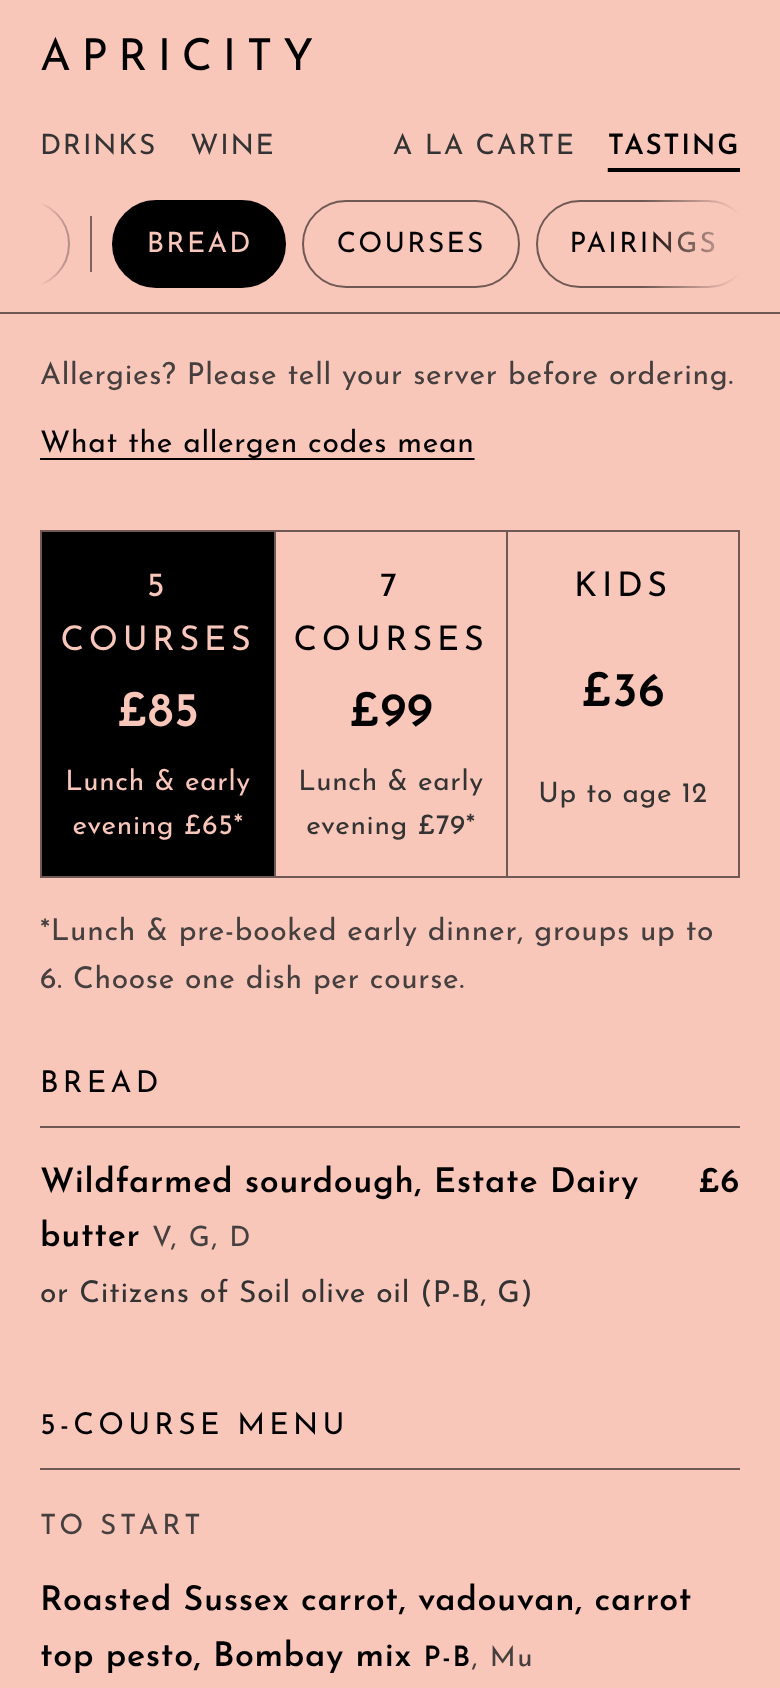
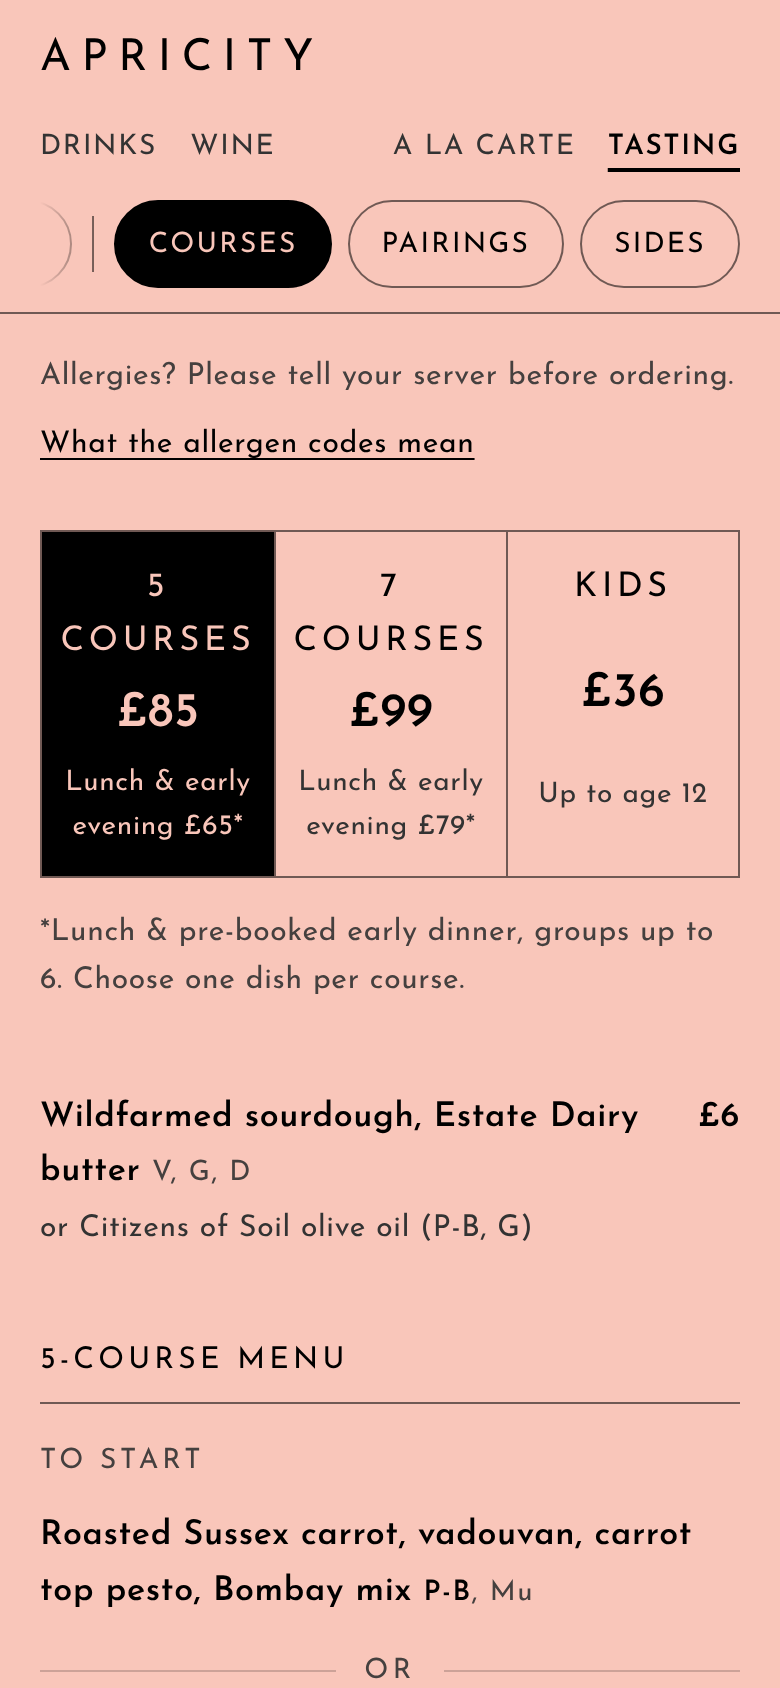
Bread: no heading or button of its own
Rows with no Section (a la carte) or Course (tasting) now sit at the top
of the menu with no heading and no section button. The bread rows in
both sheets have an empty Section/Course, so the bread shows above
Starters and above the tasting courses. Staff guide and screenshots
updated.

Claude-Session: https://claude.ai/code/session_01GSSoGmMPpnkgwBsug1j8uu

diff --git a/chefs-table.html b/chefs-table.html
@@ -327,7 +327,7 @@ details dd { margin: 0; }
   function groupBy(rows, key) {
     var out = [], idx = {};
     rows.forEach(function (r) {
-      var k = r[key] || "Other";
+      var k = r[key] || "";
       if (!(k in idx)) { idx[k] = out.length; out.push({ title: k, rows: [] }); }
       out[idx[k]].rows.push(r);
     });
@@ -410,14 +410,17 @@ details dd { margin: 0; }
   chips.addEventListener("scroll", updateFade, { passive: true });
   window.addEventListener("resize", updateFade);
   // A plain menu tab (drinks, a la carte): Section | Item | Description | Allergens | Price | Price note | Section note | Show
+  // Rows with no Section (or Course) in the sheet, like the bread, sit at the top with no heading and no button.
+  function untitled(rows) { return rows.length ? '<div class="section untitled">' + list(rows.map(rowItem)) + "</div>" : ""; }
   function simpleMenu(rows, food) {
     var groups = groupBy(rows, "section");
     var html = groups.map(function (g) {
       var shown = food ? plantFilter(g.rows) : g.rows;
+      if (!g.title) return untitled(shown);
       var note = (g.rows.filter(function (r) { return r["section note"]; })[0] || {})["section note"];
       return section(slug(g.title), g.title, shown.length ? list(shown.map(rowItem)) : '<p class="empty">No plant-based ' + esc(g.title.toLowerCase()) + " today.</p>", note);
     }).join("");
-    setChips(groups.map(function (g) { return [slug(g.title), g.title]; }), food);
+    setChips(groups.filter(function (g) { return g.title; }).map(function (g) { return [slug(g.title), g.title]; }), food);
     return html;
   }
 
@@ -504,6 +507,7 @@ details dd { margin: 0; }
       });
       var nav = [];
       before.forEach(function (g) {
+        if (!g.title) { html += untitled(plantFilter(g.rows)); return; }
         nav.push([slug(g.title), g.title]);
         html += section(slug(g.title), g.title, list(plantFilter(g.rows).map(rowItem)));
       });

diff --git a/index.html b/index.html
@@ -327,7 +327,7 @@ details dd { margin: 0; }
   function groupBy(rows, key) {
     var out = [], idx = {};
     rows.forEach(function (r) {
-      var k = r[key] || "Other";
+      var k = r[key] || "";
       if (!(k in idx)) { idx[k] = out.length; out.push({ title: k, rows: [] }); }
       out[idx[k]].rows.push(r);
     });
@@ -410,14 +410,17 @@ details dd { margin: 0; }
   chips.addEventListener("scroll", updateFade, { passive: true });
   window.addEventListener("resize", updateFade);
   // A plain menu tab (drinks, a la carte): Section | Item | Description | Allergens | Price | Price note | Section note | Show
+  // Rows with no Section (or Course) in the sheet, like the bread, sit at the top with no heading and no button.
+  function untitled(rows) { return rows.length ? '<div class="section untitled">' + list(rows.map(rowItem)) + "</div>" : ""; }
   function simpleMenu(rows, food) {
     var groups = groupBy(rows, "section");
     var html = groups.map(function (g) {
       var shown = food ? plantFilter(g.rows) : g.rows;
+      if (!g.title) return untitled(shown);
       var note = (g.rows.filter(function (r) { return r["section note"]; })[0] || {})["section note"];
       return section(slug(g.title), g.title, shown.length ? list(shown.map(rowItem)) : '<p class="empty">No plant-based ' + esc(g.title.toLowerCase()) + " today.</p>", note);
     }).join("");
-    setChips(groups.map(function (g) { return [slug(g.title), g.title]; }), food);
+    setChips(groups.filter(function (g) { return g.title; }).map(function (g) { return [slug(g.title), g.title]; }), food);
     return html;
   }
 
@@ -504,6 +507,7 @@ details dd { margin: 0; }
       });
       var nav = [];
       before.forEach(function (g) {
+        if (!g.title) { html += untitled(plantFilter(g.rows)); return; }
         nav.push([slug(g.title), g.title]);
         html += section(slug(g.title), g.title, list(plantFilter(g.rows).map(rowItem)));
       });

diff --git a/src/chefs-table.html b/src/chefs-table.html
@@ -319,7 +319,7 @@ details dd { margin: 0; }
   function groupBy(rows, key) {
     var out = [], idx = {};
     rows.forEach(function (r) {
-      var k = r[key] || "Other";
+      var k = r[key] || "";
       if (!(k in idx)) { idx[k] = out.length; out.push({ title: k, rows: [] }); }
       out[idx[k]].rows.push(r);
     });
@@ -402,14 +402,17 @@ details dd { margin: 0; }
   chips.addEventListener("scroll", updateFade, { passive: true });
   window.addEventListener("resize", updateFade);
   // A plain menu tab (drinks, a la carte): Section | Item | Description | Allergens | Price | Price note | Section note | Show
+  // Rows with no Section (or Course) in the sheet, like the bread, sit at the top with no heading and no button.
+  function untitled(rows) { return rows.length ? '<div class="section untitled">' + list(rows.map(rowItem)) + "</div>" : ""; }
   function simpleMenu(rows, food) {
     var groups = groupBy(rows, "section");
     var html = groups.map(function (g) {
       var shown = food ? plantFilter(g.rows) : g.rows;
+      if (!g.title) return untitled(shown);
       var note = (g.rows.filter(function (r) { return r["section note"]; })[0] || {})["section note"];
       return section(slug(g.title), g.title, shown.length ? list(shown.map(rowItem)) : '<p class="empty">No plant-based ' + esc(g.title.toLowerCase()) + " today.</p>", note);
     }).join("");
-    setChips(groups.map(function (g) { return [slug(g.title), g.title]; }), food);
+    setChips(groups.filter(function (g) { return g.title; }).map(function (g) { return [slug(g.title), g.title]; }), food);
     return html;
   }
 
@@ -496,6 +499,7 @@ details dd { margin: 0; }
       });
       var nav = [];
       before.forEach(function (g) {
+        if (!g.title) { html += untitled(plantFilter(g.rows)); return; }
         nav.push([slug(g.title), g.title]);
         html += section(slug(g.title), g.title, list(plantFilter(g.rows).map(rowItem)));
       });

diff --git a/src/menu.html b/src/menu.html
@@ -319,7 +319,7 @@ details dd { margin: 0; }
   function groupBy(rows, key) {
     var out = [], idx = {};
     rows.forEach(function (r) {
-      var k = r[key] || "Other";
+      var k = r[key] || "";
       if (!(k in idx)) { idx[k] = out.length; out.push({ title: k, rows: [] }); }
       out[idx[k]].rows.push(r);
     });
@@ -402,14 +402,17 @@ details dd { margin: 0; }
   chips.addEventListener("scroll", updateFade, { passive: true });
   window.addEventListener("resize", updateFade);
   // A plain menu tab (drinks, a la carte): Section | Item | Description | Allergens | Price | Price note | Section note | Show
+  // Rows with no Section (or Course) in the sheet, like the bread, sit at the top with no heading and no button.
+  function untitled(rows) { return rows.length ? '<div class="section untitled">' + list(rows.map(rowItem)) + "</div>" : ""; }
   function simpleMenu(rows, food) {
     var groups = groupBy(rows, "section");
     var html = groups.map(function (g) {
       var shown = food ? plantFilter(g.rows) : g.rows;
+      if (!g.title) return untitled(shown);
       var note = (g.rows.filter(function (r) { return r["section note"]; })[0] || {})["section note"];
       return section(slug(g.title), g.title, shown.length ? list(shown.map(rowItem)) : '<p class="empty">No plant-based ' + esc(g.title.toLowerCase()) + " today.</p>", note);
     }).join("");
-    setChips(groups.map(function (g) { return [slug(g.title), g.title]; }), food);
+    setChips(groups.filter(function (g) { return g.title; }).map(function (g) { return [slug(g.title), g.title]; }), food);
     return html;
   }
 
@@ -496,6 +499,7 @@ details dd { margin: 0; }
       });
       var nav = [];
       before.forEach(function (g) {
+        if (!g.title) { html += untitled(plantFilter(g.rows)); return; }
         nav.push([slug(g.title), g.title]);
         html += section(slug(g.title), g.title, list(plantFilter(g.rows).map(rowItem)));
       });

diff --git a/UPDATING-THE-MENU.md b/UPDATING-THE-MENU.md
@@ -27,6 +27,8 @@ The menu guests see after scanning the QR code is read from the **Apricity menus
 
 **Add a new section** (for example "Snacks"). Type the new name in the *Section* column. Sections appear in the order they first appear in the sheet.
 
+**Something at the top with no heading** (like the bread). Leave its *Section* (or, on the Tasting tab, *Course*) empty and put the row first. It shows above the first section, with no heading and no button.
+
 **Allergens.** Use the codes from the printed menu, separated by commas, for example `P-B, Mu`. Any dish with `P-B` appears when guests turn on the *Plant-based* filter.
 
 ## Setting up the Chefs' Table for a booking
@@ -60,7 +62,7 @@ The menu guests see after scanning the QR code is read from the **Apricity menus
 | Supplement | Extra charge for this choice | 14 |
 | Courses | `Both`, or `7 only` for courses served only on the 7-course menu | 7 only |
 | Add to 5-course | For a 7-only course that 5-course guests can add, the price | 8 |
-| Description, Price | Only for priced extras such as *Bread* and *Add on the side*. Rows above the first course (bread) show before the courses; rows below the last course (sides) show after the pairings | £8 |
+| Description, Price | Only for priced extras: the bread and the *Add on the side* rows. Priced rows above the first course show before the courses; those below the last course show after the pairings | £8 |
 | Show | `no` to hide | yes |
 
 **Kids**: the same columns as *Tasting*. Usually only *Course*, *Dish*, *Allergens* and *Show* are filled in.
